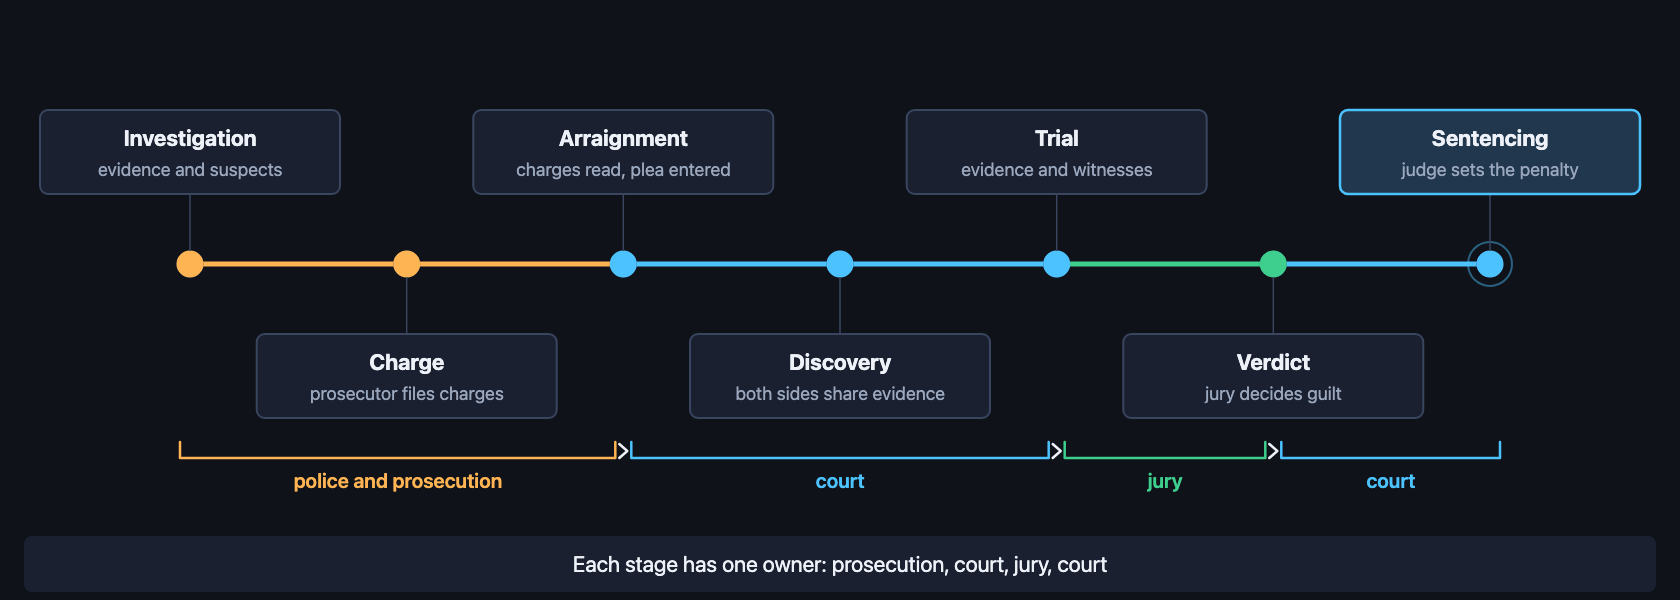
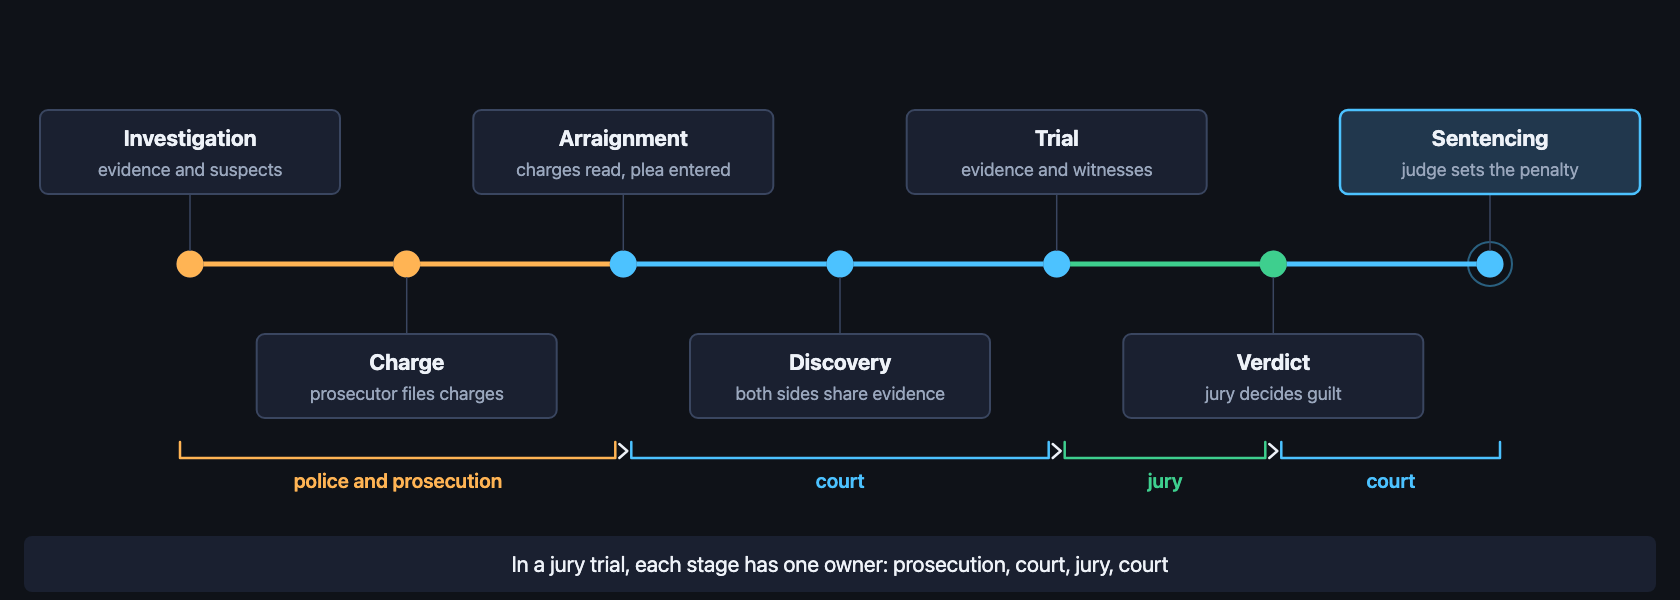
pool: fact-check pass (db-failover replica claim, court-case jury-trial scope, illustrative markers)

Changed region(s): [[0.3095, 0.93, 0.7119, 0.96]]

diff --git a/pool/court-case/court-case.html b/pool/court-case/court-case.html
@@ -2,7 +2,8 @@
   Story: a generic criminal case moves from investigation and charge through arraignment, discovery,
   trial and verdict to sentencing. The progress line changes colour where responsibility passes
   (police and prosecution -> court -> jury -> court); brackets under the axis mark each owner and
-  each hand-off. Labels alternate above and below the axis. Cycle 13 s, hold 10.8-12.5 s. -->
+  each hand-off. Labels alternate above and below the axis. Cycle 13 s, hold 10.8-12.5 s.
+  Generic and simplified: assumes a not-guilty plea and a jury trial; many cases end in a guilty plea or a bench trial, and stage names and order vary by jurisdiction. -->
 <style>
 .anim-court-case{
   --anim-bg:       var(--anim-theme-bg,       #0f1218);
@@ -298,7 +299,7 @@
   <text class="court-case-t court-case-note court-case-n1" x="840" y="572" text-anchor="middle">Hand-off 1: at arraignment the court takes charge of the case</text>
   <text class="court-case-t court-case-note court-case-n2" x="840" y="572" text-anchor="middle">Hand-off 2: once the evidence is heard, the jury deliberates</text>
   <text class="court-case-t court-case-note court-case-n3" x="840" y="572" text-anchor="middle">Hand-off 3: the verdict returns the case to the judge</text>
-  <text class="court-case-t court-case-note court-case-n4" x="840" y="572" text-anchor="middle">Each stage has one owner: prosecution, court, jury, court</text>
+  <text class="court-case-t court-case-note court-case-n4" x="840" y="572" text-anchor="middle">In a jury trial, each stage has one owner: prosecution, court, jury, court</text>
 </g>
 </svg>
 </div>

diff --git a/pool/funding-options/funding-options.html b/pool/funding-options/funding-options.html
@@ -1,3 +1,4 @@
+<!-- funding-options (pool, archetype compare, domain business). Amounts, timings and ownership shares are illustrative typical ranges, not advice; they vary widely by market, stage and year. -->
 <style>
 .anim-funding-options{
   --anim-bg:       var(--anim-theme-bg,       #0f1218);
@@ -233,6 +234,7 @@
 </g></g>
 </g>
 <rect class="funding-options-band" x="28" y="420" width="1620" height="100" rx="10" style="transform-box:fill-box;transform-origin:50% 50%"/>
+<text class="funding-options-mono funding-options-pct" x="1648" y="592" text-anchor="end" style="fill:var(--anim-line)">illustrative</text>
 <text class="funding-options-sans funding-options-note funding-options-n0" x="840" y="574" text-anchor="middle">Bootstrapping: no investors, so you grow at the pace of your revenue</text>
 <text class="funding-options-sans funding-options-note funding-options-n1" x="840" y="574" text-anchor="middle">Angels: a first cheque from individuals, in exchange for a stake</text>
 <text class="funding-options-sans funding-options-note funding-options-n2" x="840" y="574" text-anchor="middle">Venture capital: the most money, the most diligence, the highest expectations</text>

diff --git a/pool/db-failover/db-failover.html b/pool/db-failover/db-failover.html
@@ -1,3 +1,4 @@
+<!-- db-failover (pool, archetype graph, domain software). Error rate, p99 latency and the replica state are illustrative, not measurements. -->
 <style>
 .anim-db-failover{
   --anim-bg:       var(--anim-theme-bg,       #0f1218);
@@ -213,7 +214,7 @@
     <g class="db-failover-card">
       <rect x="685" y="244" width="280" height="110" rx="6"/>
       <text class="db-failover-sans db-failover-fg" font-weight="700" x="700" y="274">Proposal: promote db-b</text>
-      <text class="db-failover-mono db-failover-cy" x="700" y="306">replica lag 0.2 s</text>
+      <text class="db-failover-mono db-failover-cy" x="700" y="306">replica in sync</text>
       <text class="db-failover-mono db-failover-gn" x="700" y="336">0 writes lost</text>
     </g>
     <g class="db-failover-appr">

diff --git a/pool/deploy-pipeline/deploy-pipeline.html b/pool/deploy-pipeline/deploy-pipeline.html
@@ -1,6 +1,7 @@
 <!-- deploy-pipeline (pool, archetype pipeline). Hand-polished from the scaffold of spec.yaml.
   Story: commit > build > test > staging > canary; the rollback edge is armed during the canary,
-  errors stay under the limit and production is promoted to 100 %. Cycle 12 s, hold 9.4-11.5 s. -->
+  errors stay under the limit and production is promoted to 100 %. Cycle 12 s, hold 9.4-11.5 s.
+  Names, numbers and times are illustrative examples. -->
 <style>
 .anim-deploy-pipeline{
   --anim-bg:       var(--anim-theme-bg,       #0f1218);

diff --git a/pool/job-states/job-states.html b/pool/job-states/job-states.html
@@ -1,6 +1,7 @@
 <!-- job-states: states archetype, hand-tuned from pool/job-states/spec.yaml (scaffold, then rebuilt for layout and story).
   12 s cycle: queued > running (attempt 1) > failed > retry > queued > running (attempt 2) > succeeded
-  | one token per hop, event log fills in | 9.4-11.5 s hold | 11.5 s reset -->
+  | one token per hop, event log fills in | 9.4-11.5 s hold | 11.5 s reset
+  Names, numbers and times are illustrative examples. -->
 <style>
 .anim-job-states {
   --anim-bg:       var(--anim-theme-bg,       #0f1218);

diff --git a/pool/roadmap/roadmap.html b/pool/roadmap/roadmap.html
@@ -1,6 +1,7 @@
 <!-- roadmap (pool, archetype timeline). Hand-polished from the scaffold of spec.yaml.
   Story: a progress line walks the axis; each milestone pops in and ships, the line stops at "now"
-  (Q4, mobile apps in progress) and the planned v2 appears dashed. Cycle 12 s, hold 9.6-11.5 s. -->
+  (Q4, mobile apps in progress) and the planned v2 appears dashed. Cycle 12 s, hold 9.6-11.5 s.
+  Names, numbers and times are illustrative examples. -->
 <style>
 .anim-roadmap{
   --anim-bg:       var(--anim-theme-bg,       #0f1218);

diff --git a/pool/parcel-route/parcel-route.html b/pool/parcel-route/parcel-route.html
@@ -1,6 +1,7 @@
 <!-- parcel-route: hero demo fragment (archetype pipeline). Story: a parcel hops ordered > picked > sorted >
   on the van > delivered; each hand-off turns green, the route fills, the lead time lands.
-  Cycle 8 s, hold 6.5-7.6 s. Resting frame = delivered. -->
+  Cycle 8 s, hold 6.5-7.6 s. Resting frame = delivered.
+  Names, numbers and times are illustrative examples. -->
 <style>
 .anim-parcel-route{
   --anim-bg:       var(--anim-theme-bg,       #0f1218);

diff --git a/pool/cache-compare/cache-compare.html b/pool/cache-compare/cache-compare.html
@@ -1,3 +1,4 @@
+<!-- cache-compare (pool, archetype compare, domain software). Latencies (180 ms, 8 ms) and load percentages are illustrative example figures. -->
 <style>
 .anim-cache-compare{
   --anim-bg:       var(--anim-theme-bg,       #0f1218);

diff --git a/pool/rag-stack/rag-stack.html b/pool/rag-stack/rag-stack.html
@@ -1,3 +1,4 @@
+<!-- rag-stack (pool, archetype layers, domain software). Documents, similarity scores and the answer are illustrative examples. -->
 <style>
 .anim-rag-stack {
   --anim-bg:       var(--anim-theme-bg,       #0f1218);

diff --git a/pool/hiring-lanes/hiring-lanes.html b/pool/hiring-lanes/hiring-lanes.html
@@ -1,3 +1,4 @@
+<!-- hiring-lanes (pool, swimlanes, domain HR). Day counts are an illustrative example, not a benchmark. -->
 <style>
 .anim-hiring-lanes{
   --anim-bg:       var(--anim-theme-bg,       #0f1218);
